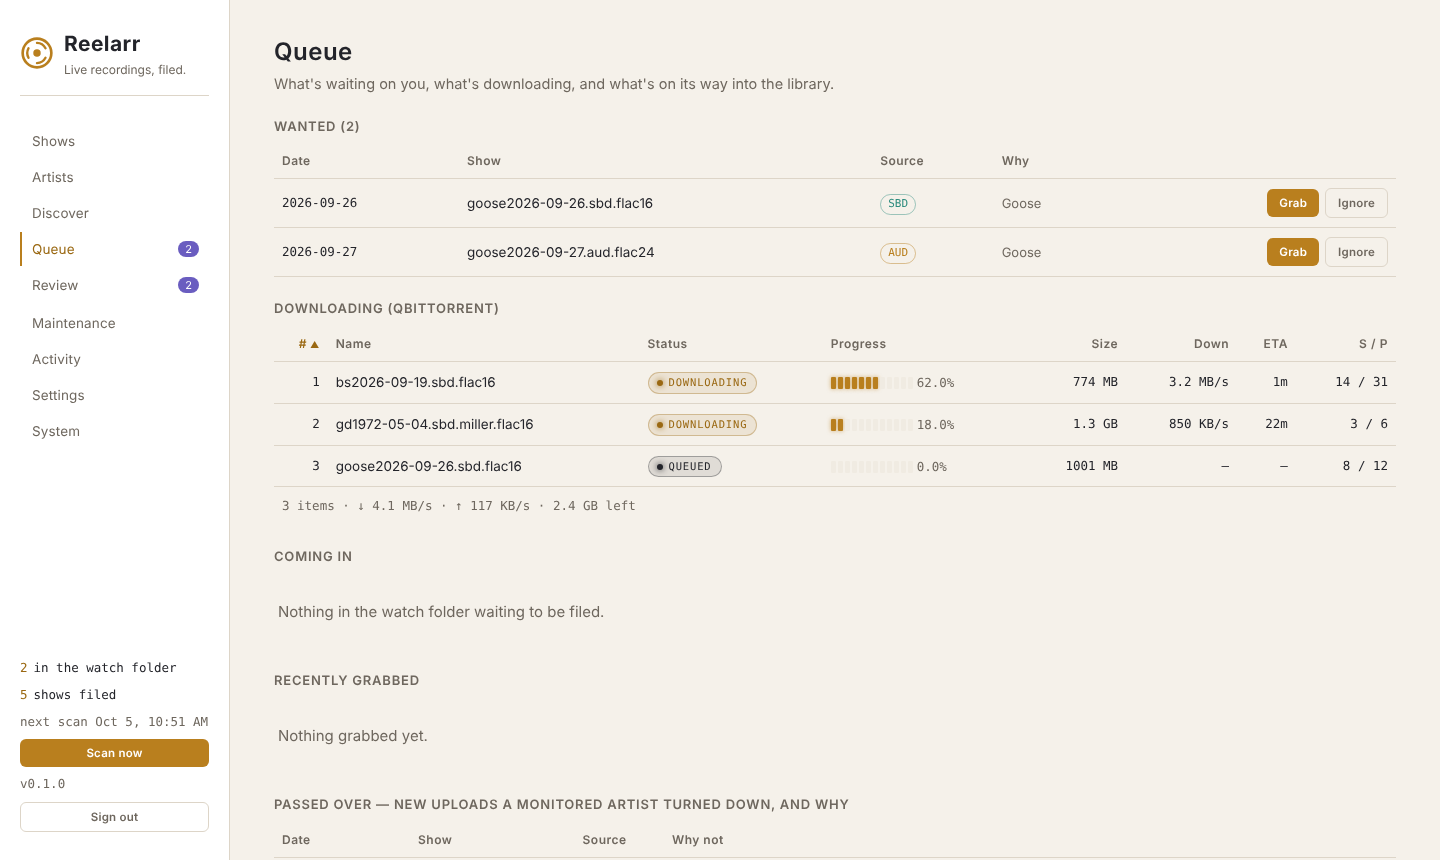
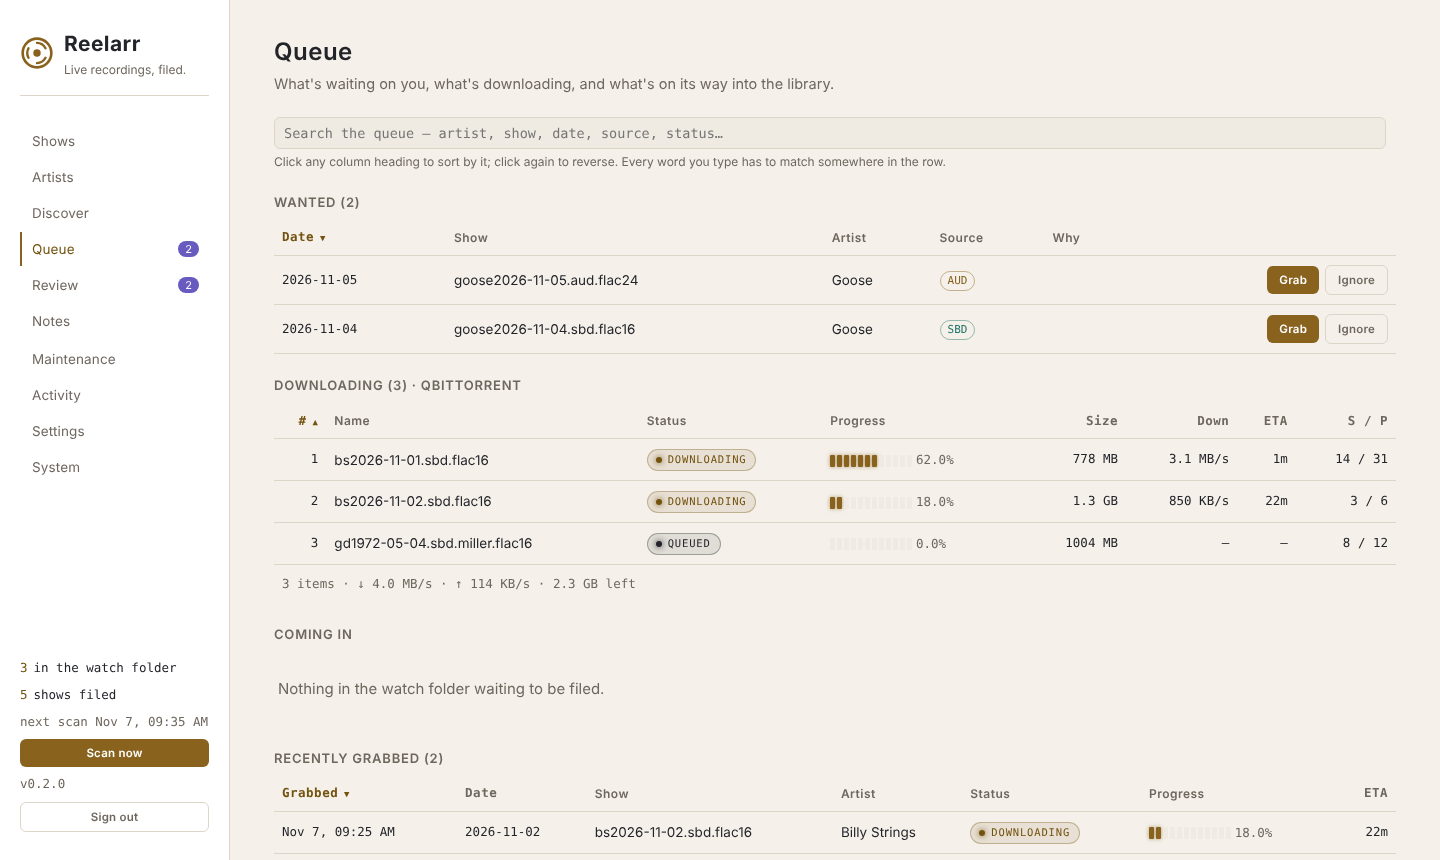
Retake README screenshots for 0.2.0; tools/screenshots.py rebuilds them (#27)
A throwaway offline demo install (real FLACs through the real pipeline,
stand-in Live Music Archive and qBittorrent) photographed by Playwright.

Claude-Session: https://claude.ai/code/session_01XUbK8C6SevP17CkTnFhzU5

diff --git a/tools/screenshots.py b/tools/screenshots.py
@@ -1,0 +1,290 @@
+"""Rebuild the README screenshots from a throwaway demo install.
+
+    python tools/screenshots.py            # writes docs/screenshots/*.png
+
+Everything runs offline in a temporary folder: real FLAC files made with
+ffmpeg are filed by the real pipeline, a stand-in Live Music Archive and a
+stand-in qBittorrent supply the Artists and Queue pages, and Playwright's
+Chromium takes the pictures. Needs ffmpeg and `pip install playwright`.
+Nothing here touches your own config or library.
+"""
+import json
+import os
+import shutil
+import subprocess
+import sys
+import tempfile
+import threading
+import time
+from pathlib import Path
+
+ROOT = Path(__file__).resolve().parents[1]
+OUT = ROOT / "docs" / "screenshots"
+PORT = 8291
+USER, PASSWORD = "demo", "demo-password-123"
+SIZE = {"width": 1440, "height": 860}
+
+
+# ── a demo install ───────────────────────────────────────────────────────────
+
+def _env(tmp: Path):
+    for d in ("config", "watch", "music", "torrents", "dl"):
+        (tmp / d).mkdir(parents=True, exist_ok=True)
+    os.environ.update(REELARR_CONFIG=str(tmp / "config"), REELARR_WATCH=str(tmp / "watch"),
+                      REELARR_LIBRARY=str(tmp / "music"), TZ="America/New_York")
+    settings = {
+        "safety": {"dry_run": False},
+        "paths": {"watch_dir": str(tmp / "watch"), "library_dir": str(tmp / "music")},
+        "sources": {"use_setlistfm": False, "use_internet_archive": False,
+                    "use_musicbrainz_genre": False},
+        "watcher": {"audio_source_analysis": False},
+        "filing": {"auto_file_threshold": 70, "new_artist_policy": "auto"},
+        "torrents": {"enabled": True, "client": "qbittorrent", "url": "http://qbittorrent:8080",
+                     "watch_dir": str(tmp / "torrents"), "label": "reelarr"},
+        "monitor": {"enabled": True, "interval_hours": 12},
+    }
+    (tmp / "config" / "settings.json").write_text(json.dumps(settings))
+    sys.path.insert(0, str(ROOT))
+
+
+def _flac(path: Path, seconds: int, tags: dict, freq: int):
+    path.parent.mkdir(parents=True, exist_ok=True)
+    subprocess.run(["ffmpeg", "-y", "-v", "error", "-f", "lavfi", "-i",
+                    f"sine=frequency={freq}:duration={seconds}", "-c:a", "flac", str(path)],
+                   check=True)
+    from mutagen.flac import FLAC
+    a = FLAC(path)
+    for k, v in tags.items():
+        a[k] = v
+    a.save()
+
+
+def _show(watch: Path, folder: str, artist: str, songs: list, info: str = "",
+          tag_titles: bool = True, seconds=None):
+    d = watch / folder
+    seconds = seconds or [4] * len(songs)
+    for i, (song, sec) in enumerate(zip(songs, seconds), 1):
+        tags = {"ARTIST": artist, "TRACKNUMBER": str(i)}
+        if tag_titles:
+            tags["TITLE"] = song
+        _flac(d / f"t{i:02d}.flac", sec, tags, 220 + 30 * i)
+    if info:
+        (d / f"{folder}.txt").write_text(info)
+    return d
+
+
+def _info(artist, date, venue, city, source, songs, lineage="", taper=""):
+    lines = [artist, date, venue, city, ""]
+    if source:
+        lines += [f"Source: {source}" + (f" > {lineage}" if lineage else "")]
+    if taper:
+        lines += [f"Recorded by {taper}"]
+    lines += ["", *[f"{i:02d}. {s}" for i, s in enumerate(songs, 1)]]
+    return "\n".join(lines) + "\n"
+
+
+def seed(tmp: Path):
+    from app import auth, database as db, pipeline, setup
+    db.init()
+    setup.mark_done()
+    auth.create_user(USER, PASSWORD)
+    watch = tmp / "watch"
+
+    filed = [
+        ("gd1977-05-08.sbd.hicks.4982.sbeok.shnf", "Grateful Dead",
+         ["New Minglewood Blues", "Loser", "El Paso", "They Love Each Other", "Jack Straw"],
+         _info("Grateful Dead", "1977-05-08", "Barton Hall, Cornell University", "Ithaca, NY",
+               "SBD", ["New Minglewood Blues", "Loser", "El Paso", "They Love Each Other", "Jack Straw"],
+               "Reel > DAT > CD", "Betty Cantor-Jackson")),
+        ("bstrings2023-04-21.aud.flac24", "Billy Strings",
+         ["Away From the Mire", "Dust in a Baggie", "Meet Me at the Creek", "Red Daisy"],
+         _info("Billy Strings", "2023-04-21", "Red Rocks Amphitheatre", "Morrison, CO", "AUD",
+               ["Away From the Mire", "Dust in a Baggie", "Meet Me at the Creek", "Red Daisy"],
+               "Schoeps MK4 > Sound Devices MixPre-6")),
+        ("goose2026-09-28.mk4.aud.flac24", "Goose",
+         ["Arcadia", "Hot Tea", "Madalena", "Tumble"],
+         _info("Goose", "2026-09-28", "Paradiso", "Amsterdam, Netherlands", "AUD",
+               ["Arcadia", "Hot Tea", "Madalena", "Tumble"])),
+        ("phish1997-11-22.mtx.flac", "Phish",
+         ["Tweezer", "Reba", "Black-Eyed Katy", "Piper"],
+         _info("Phish", "1997-11-22", "Hampton Coliseum", "Hampton, VA", "Matrix",
+               ["Tweezer", "Reba", "Black-Eyed Katy", "Piper"])),
+        ("wsp2024-12-31.sbd", "Widespread Panic",
+         ["Chilly Water", "Ain't Life Grand", "Porch Song"],
+         _info("Widespread Panic", "2024-12-31", "Fox Theatre", "Atlanta, GA", "SBD",
+               ["Chilly Water", "Ain't Life Grand", "Porch Song"])),
+    ]
+    for folder, artist, songs, info in filed:
+        pipeline.process_show(_show(watch, folder, artist, songs, info))
+
+    # waits in Review: nothing says where it was
+    pipeline.process_show(_show(
+        watch, "jgb1990-11-17 show", "Jerry Garcia Band",
+        ["How Sweet It Is", "Stop That Train", "Tangled Up in Blue"]))
+    # waits in Review: no venue, and a tuning track the setlist doesn't list
+    pipeline.process_show(_show(
+        watch, "ttb2025-02-14.aud.flac16", "Tedeschi Trucks Band",
+        ["Tuning", "Anyhow", "Midnight in Harlem", "Bound for Glory"],
+        _info("Tedeschi Trucks Band", "2025-02-14", "", "", "AUD",
+              ["Anyhow", "Midnight in Harlem", "Bound for Glory"]),
+        tag_titles=False, seconds=[25, 80, 80, 80]))
+    # one waiting in the watch folder for the next scan
+    _show(watch, "mmj2026-10-31.aud.flac16", "My Morning Jacket", ["One Big Holiday", "Wordless Chorus"])
+
+    _seed_artists()
+
+
+# ── stand-ins for the indexer and the download client ───────────────────────
+
+def _seed_artists():
+    from app import indexers, monitor
+    from app.indexers.base import Indexer, Release
+
+    def rel(i, title, artist, date, src, fmt="flac", added="2026-11-06"):
+        return Release(indexer="lma", id=title, title=title, artist=artist, date=date,
+                       source_type=src, formats=[fmt], added=added,
+                       url=f"https://archive.org/details/{title}")
+
+    found = {
+        "Billy Strings": [rel(1, "bs2026-11-01.sbd.flac16", "Billy Strings", "2026-11-01", "SBD"),
+                          rel(2, "bs2026-11-02.sbd.flac16", "Billy Strings", "2026-11-02", "SBD"),
+                          rel(3, "bs2026-11-02.aud.mp3", "Billy Strings", "2026-11-02", "AUD", "mp3")],
+        "Goose": [rel(4, "goose2026-11-04.sbd.flac16", "Goose", "2026-11-04", "SBD"),
+                  rel(5, "goose2026-11-05.aud.flac24", "Goose", "2026-11-05", "AUD", "flac24"),
+                  rel(6, "goose2026-11-05.aud.mp3", "Goose", "2026-11-05", "AUD", "mp3")],
+        "Grateful Dead": [],
+    }
+
+    class DemoLMA(Indexer):
+        name, label = "lma", "Live Music Archive"
+
+        def new_for_artist(self, artist, since="", rows=50, collection=""):
+            return list(found.get(artist, []))
+
+        def count_for_artist(self, artist, collection=""):
+            return 17402 if artist == "Grateful Dead" else len(found.get(artist, []))
+
+        def similar_names(self, artist):
+            return []
+
+        def check_downloadable(self, release):
+            return ""
+
+        def grab(self, release_ids):
+            return {"grabbed": len(release_ids)}
+
+    indexers.register(DemoLMA())
+    monitor.save_artist("Billy Strings", lookback_days=30, sources=["SBD", "MTX"], action="grab")
+    monitor.save_artist("Goose", lookback_days=30, action="wanted")
+    monitor.save_artist("Grateful Dead", lookback_days=0, sources=["SBD"], action="wanted",
+                        collection="GratefulDead")
+    for a in monitor.list_artists():
+        monitor.check_artist(a)
+
+
+def _fake_client():
+    from app import clients
+    from app.clients.base import AddResult, TorrentInfo
+    now = time.time()
+    gb = 1024 ** 3
+    listing = [
+        TorrentInfo(id="a", name="bs2026-11-01.sbd.flac16", status="downloading", queue=1,
+                    size=int(0.76 * gb), done=int(0.47 * gb), progress=0.62, dl_speed=3_300_000,
+                    ul_speed=95_000, eta=95, seeds=14, peers=31, ratio=0.04, added=now - 600,
+                    label="reelarr"),
+        TorrentInfo(id="b", name="bs2026-11-02.sbd.flac16", status="downloading", queue=2,
+                    size=int(1.3 * gb), done=int(0.23 * gb), progress=0.18, dl_speed=870_000,
+                    ul_speed=22_000, eta=1320, seeds=3, peers=6, ratio=0.0, added=now - 540,
+                    label="reelarr"),
+        TorrentInfo(id="c", name="gd1972-05-04.sbd.miller.flac16", status="queued", queue=3,
+                    size=int(0.98 * gb), done=0, progress=0.0, seeds=8, peers=12, ratio=0.0,
+                    added=now - 300, label="reelarr"),
+        TorrentInfo(id="d", name="goose2026-10-30.aud.flac24", status="seeding", size=int(2.1 * gb),
+                    done=int(2.1 * gb), progress=1.0, finished=True, ul_speed=410_000, seeds=22,
+                    peers=40, ratio=1.37, added=now - 86400, label="reelarr"),
+    ]
+
+    class Demo:
+        name, label_term = "qBittorrent", "category"
+
+        def connect(self):
+            return True
+
+        def get_torrents(self, label=""):
+            return listing
+
+        def add_torrent_file(self, *a, **k):
+            return AddResult(torrent_id="x")
+
+        def add_magnet(self, *a, **k):
+            return AddResult(torrent_id="x")
+
+    clients.build = lambda cfg: Demo()
+
+
+# ── serve and shoot ──────────────────────────────────────────────────────────
+
+def _serve():
+    import uvicorn
+    from app.main import app
+    server = uvicorn.Server(uvicorn.Config(app, host="127.0.0.1", port=PORT, log_level="warning"))
+    threading.Thread(target=server.run, daemon=True).start()
+    for _ in range(100):
+        if server.started:
+            return server
+        time.sleep(0.1)
+    raise SystemExit("the demo server didn't start")
+
+
+def shoot():
+    from playwright.sync_api import sync_playwright
+    base = f"http://127.0.0.1:{PORT}"
+    OUT.mkdir(parents=True, exist_ok=True)
+    with sync_playwright() as p:
+        exe = os.environ.get("CHROMIUM") or ("/opt/pw-browsers/chromium"
+                                             if Path("/opt/pw-browsers/chromium").exists() else None)
+        b = p.chromium.launch(executable_path=exe) if exe else p.chromium.launch()
+        page = b.new_page(viewport=SIZE, color_scheme="light", device_scale_factor=1)
+        page.goto(base + "/login")
+        page.locator("input[name=username]:visible").fill(USER)
+        page.locator("input[name=password]:visible").fill(PASSWORD)
+        page.keyboard.press("Enter")
+        page.wait_for_url(lambda u: "/login" not in u, timeout=10000)
+
+        def go(view, prep=None, name=None):
+            page.click(f"nav button[data-view={view}]")
+            page.wait_for_timeout(1800)
+            if prep:
+                prep(page)
+                page.wait_for_timeout(1200)
+            page.screenshot(path=str(OUT / f"{name or view}.png"))
+            print("wrote", OUT / f"{name or view}.png")
+
+        def open_tracks(pg):
+            pg.locator("summary:has-text('Track titles')").first.click()
+
+        go("shows")
+        go("artists")
+        go("queue")
+        go("review", open_tracks)
+        b.close()
+
+
+def main():
+    if not shutil.which("ffmpeg"):
+        raise SystemExit("needs ffmpeg")
+    # a short, fixed path, because it shows on the Shows page
+    tmp = Path(tempfile.gettempdir()) / "demo"
+    shutil.rmtree(tmp, ignore_errors=True)
+    try:
+        _env(tmp)
+        seed(tmp)
+        _fake_client()
+        _serve()
+        shoot()
+    finally:
+        shutil.rmtree(tmp, ignore_errors=True)
+
+
+if __name__ == "__main__":
+    main()

diff --git a/README.md b/README.md
@@ -30,7 +30,7 @@ Reelarr learns the correction for every show after it.
   <img src="docs/screenshots/shows.png" width="49%" alt="Shows: every show handled, filed with a consistent name">
   <img src="docs/screenshots/queue.png" width="49%" alt="Queue: wanted releases and a sortable download table">
   <img src="docs/screenshots/artists.png" width="49%" alt="Artists: monitored artists and what each check found">
-  <img src="docs/screenshots/review.png" width="49%" alt="Review: shows Reelarr wasn't sure about, ready to correct">
+  <img src="docs/screenshots/review.png" width="49%" alt="Review: correct a show and its track titles, tick tracks that aren't songs">
 </p>
 
 > Version 0.2.0. See [`CHANGELOG.md`](CHANGELOG.md).

diff --git a/CHANGELOG.md b/CHANGELOG.md
@@ -4,6 +4,12 @@ All notable changes to Reelarr. Versions follow [Semantic Versioning](https://se
 until 1.0, minor versions may change behaviour, and every upgrade backs up your
 databases first.
 
+## Unreleased
+
+- README screenshots retaken for 0.2.0 (new colours, Notes, queue search,
+  track titles in Review). `tools/screenshots.py` rebuilds them from a
+  throwaway demo install, so they can be refreshed with each release.
+
 ## 0.2.0 — 2026-11-05
 
 **Upgrading:** nothing to do. Your databases and settings are backed up and
